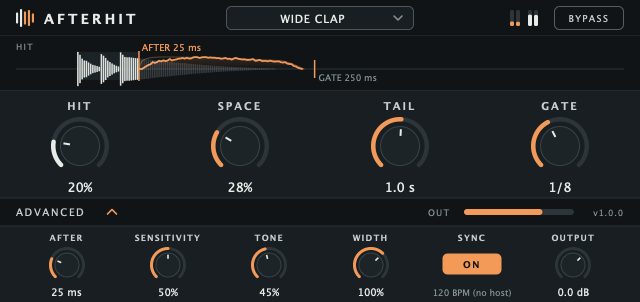
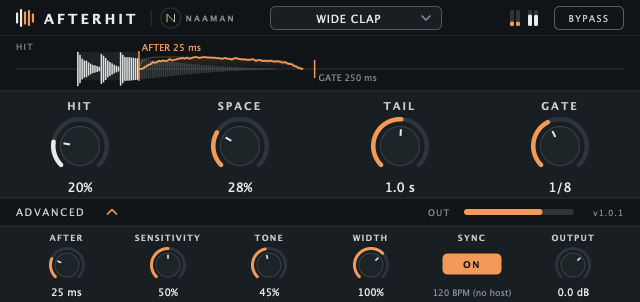
1.0.1: Naaman maker's mark in the header

diff --git a/Source/PluginEditor.cpp b/Source/PluginEditor.cpp
@@ -175,7 +175,7 @@ void AfterHitAudioProcessorEditor::resized()
     const int w = getWidth();
 
     //  Top bar.
-    presets.setBounds (w / 2 - 94, 6, 188, 24);
+    presets.setBounds (w / 2 - 50, 6, 172, 24);   // right of centre: the wordmark + maker's mark sit left
     bypassButton.setBounds (w - gutter - 70, 6, 70, 24);
 
     timingStrip.setBounds (0, topBar, w, metric::strip);
@@ -215,7 +215,21 @@ void AfterHitAudioProcessorEditor::paint (juce::Graphics& g)
     drawLogoMark (g, { (float) gutter, 9.0f, 18.0f, 18.0f });
     g.setColour (colour::text);
     g.setFont (font (16.0f, true, 0.20f));
-    g.drawText ("AFTERHIT", juce::Rectangle<float> ((float) gutter + 28.0f, 0.0f, 160.0f, (float) topBar), juce::Justification::centredLeft, false);
+    {
+        const auto wordFont = font (16.0f, true, 0.20f);
+        g.setFont (wordFont);
+        const float wx = (float) gutter + 28.0f;
+        g.drawText ("AFTERHIT", juce::Rectangle<float> (wx, 0.0f, 160.0f, (float) topBar), juce::Justification::centredLeft, false);
+
+        //  Maker's mark after the wordmark, behind a hairline - as on ISO.
+        const float x0 = wx + juce::GlyphArrangement::getStringWidth (wordFont, "AFTERHIT") + 12.0f;
+        g.setColour (colour::hairline);
+        g.fillRect (juce::Rectangle<float> (x0, 10.0f, 1.0f, 16.0f));
+        drawNaamanMark (g, juce::Rectangle<float> (x0 + 9.0f, 7.0f, 22.0f, 22.0f));
+        g.setColour (colour::secondary);
+        g.setFont (font (9.5f, true, 0.22f));
+        g.drawText ("NAAMAN", juce::Rectangle<float> (x0 + 35.0f, 0.0f, 60.0f, (float) topBar), juce::Justification::centredLeft, false);
+    }
 
     // --- bands -----------------------------------------------------------------------
     const float rowY = (float) (topBar + strip);

diff --git a/Source/Ui/Theme.cpp b/Source/Ui/Theme.cpp
@@ -37,6 +37,23 @@ namespace ah::ui
         }
     }
 
+    void drawNaamanMark (juce::Graphics& g, juce::Rectangle<float> b)
+    {
+        const float d = juce::jmin (b.getWidth(), b.getHeight());
+        auto box = b.withSizeKeepingCentre (d, d);
+        const float s = d / 40.0f;
+        auto at = [&box, s] (float x, float y) { return juce::Point<float> (box.getX() + x * s, box.getY() + y * s); };
+        const juce::Colour bone (0xffeae7e0), brass (0xffc9a86a);
+
+        g.setColour (bone.withAlpha (0.28f));
+        g.drawEllipse (box.reduced (1.75f * s), 1.0f * s);
+        g.setColour (bone);
+        g.drawLine ({ at (13.2f, 27.4f), at (13.2f, 12.6f) }, 1.5f * s);
+        g.drawLine ({ at (26.8f, 27.4f), at (26.8f, 12.6f) }, 1.5f * s);
+        g.setColour (brass);
+        g.drawLine ({ at (13.2f, 12.6f), at (26.8f, 27.4f) }, 1.5f * s);
+    }
+
     Look::Look()
     {
         setColour (juce::ComboBox::textColourId, colour::text);

diff --git a/Source/Ui/Theme.h b/Source/Ui/Theme.h
@@ -53,6 +53,11 @@ namespace ah::ui
     //  follows it). Fills `bounds`.
     void drawLogoMark (juce::Graphics&, juce::Rectangle<float> bounds);
 
+    //  The maker's mark - Naaman's N in a circle, bone strokes and one brass
+    //  diagonal. Same geometry as ISO, FOUR COLOR and the website (a 40x40
+    //  box: verticals at x 13.2 / 26.8 from y 12.6 to 27.4, circle r 18.25).
+    void drawNaamanMark (juce::Graphics&, juce::Rectangle<float> bounds);
+
     //  Text with letter spacing, drawn in `area`.
     void drawTracked (juce::Graphics&, const juce::String&, juce::Rectangle<float> area,
                       juce::Font, juce::Justification);
